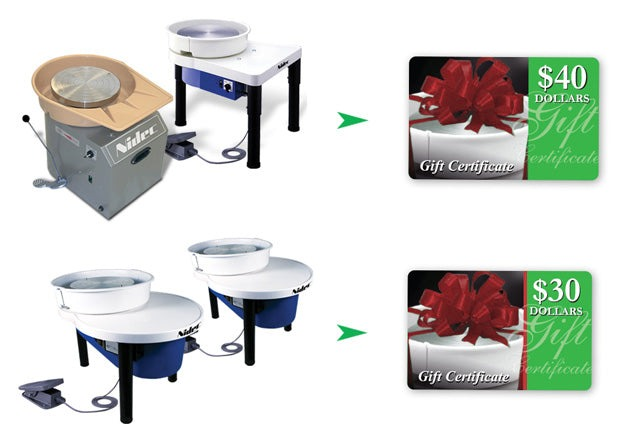
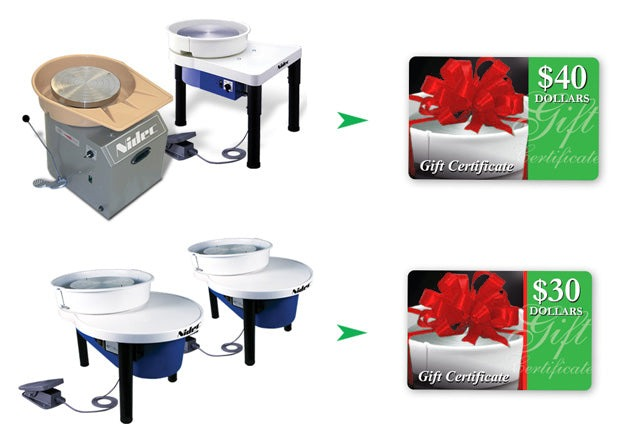
Brighten Shimpo promo gift bows to a Christmas red
Claude-Session: https://claude.ai/code/session_015Xa2d8bzbDXgyoVZGQxVz9

diff --git a/promos/shimpo-holiday-2026/recolor_bow.py b/promos/shimpo-holiday-2026/recolor_bow.py
@@ -13,6 +13,6 @@ for x0, y0, x1, y1 in boxes:
             r, g, b = px[x, y]
             h, s, v = colorsys.rgb_to_hsv(r / 255, g / 255, b / 255)
             if 0.20 < h < 0.48 and s > 0.25 and v > 0.08:
-                nr, ng, nb = colorsys.hsv_to_rgb(0.995, min(1.0, s * 1.05), min(1.0, v * 1.08))
+                nr, ng, nb = colorsys.hsv_to_rgb(0.0, min(1.0, 0.35 + s * 0.75), min(1.0, 0.18 + v * 1.25))
                 px[x, y] = (round(nr * 255), round(ng * 255), round(nb * 255))
 im.save(dst, quality=92)
